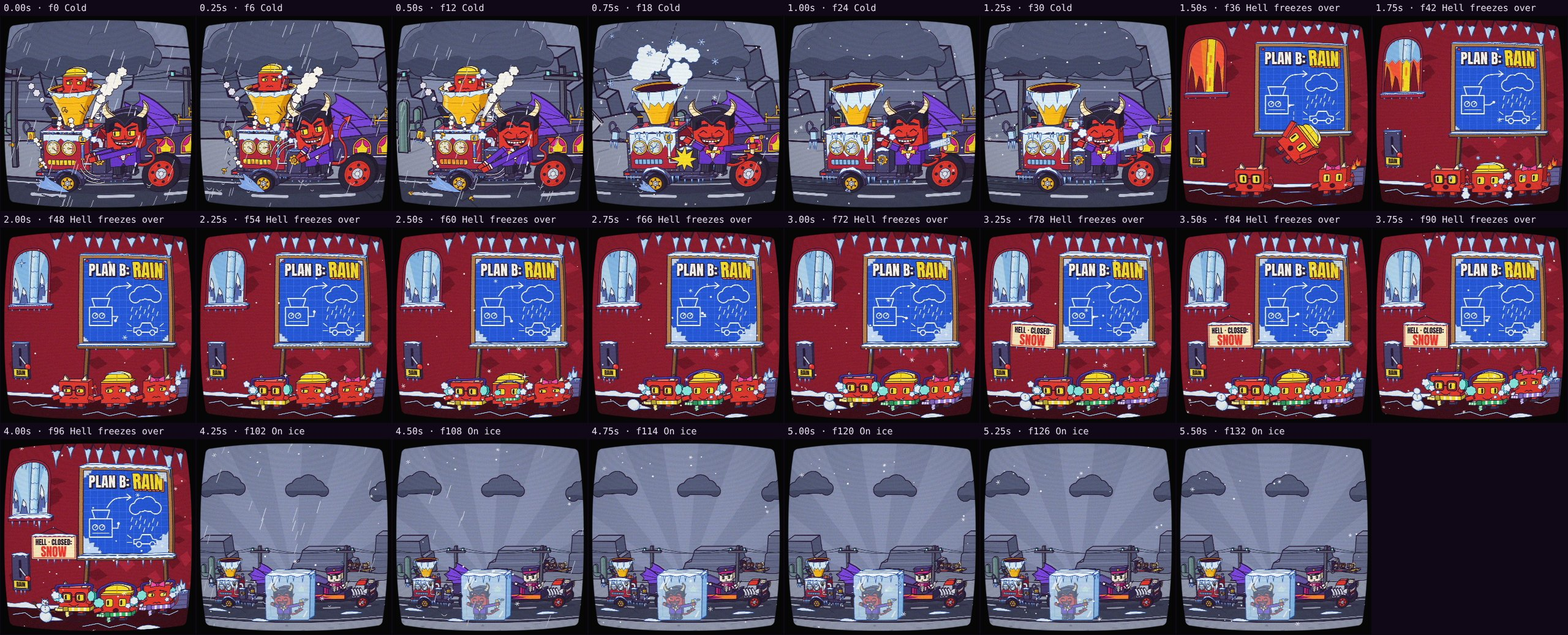
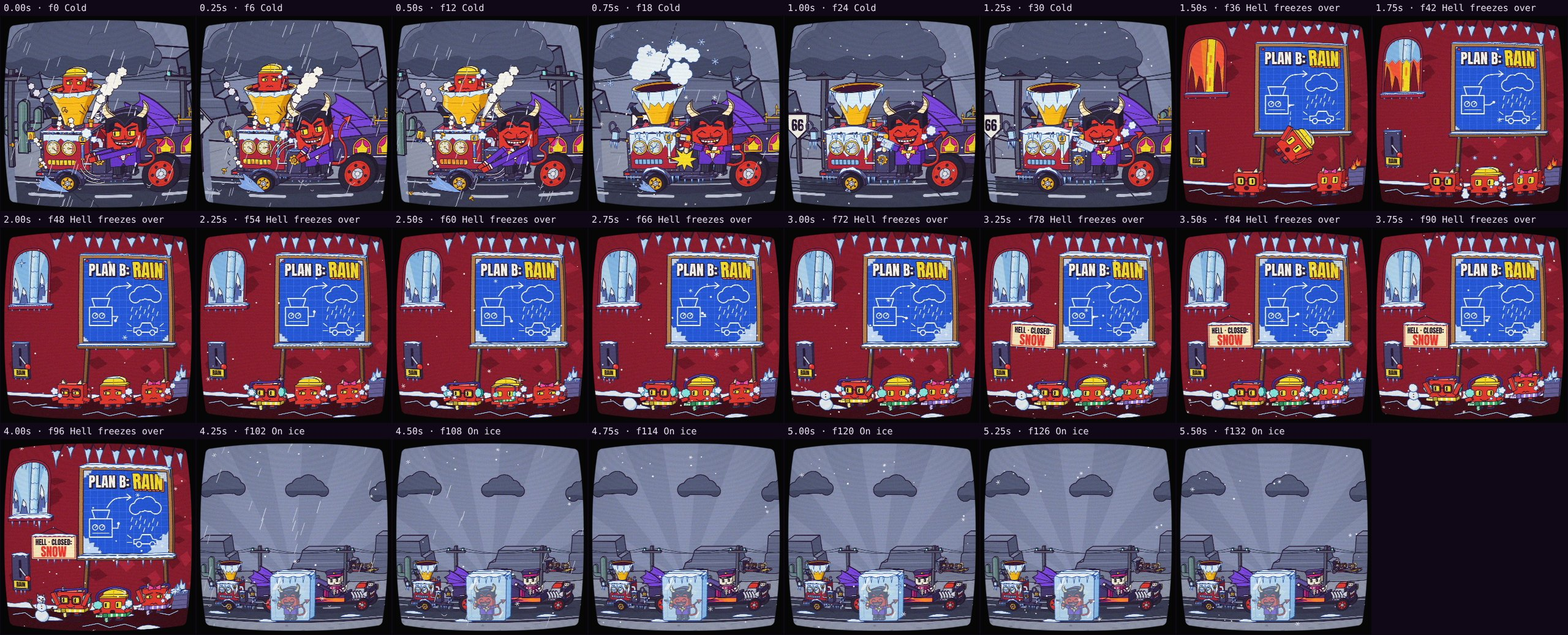
wip(runnin-down-a-dream): blocks in progress, snapshot
Claude-Session: https://claude.ai/code/session_01UB8Eocu6YQhvkYFYMosPEV

diff --git a/sandbox/2026-11-11-runnin-down-a-dream/segments/verse3b-props.js b/sandbox/2026-11-11-runnin-down-a-dream/segments/verse3b-props.js
@@ -637,7 +637,7 @@ const Verse3bProps = (() => {
         const q = rot([p[0] - G.HINGE[0], p[1] - G.HINGE[1]], a);
         return [q[0] + G.HINGE[0], q[1] + G.HINGE[1]];
     };
-    const SHUT = -0.105;
+    const SHUT = -0.084;
     const strata = (g, pts, ys, x0, x1) => {
         g.save();
         C.trace(g, pts);
@@ -686,6 +686,32 @@ const Verse3bProps = (() => {
         C.trace(g, [...LOWER.slice(1, 8), ...LIP.map((p) => turn(p, a))]);
         g.clip();
         for (const [fx, fy, fs, sd] of [[236, 770, 96, 0], [318, 782, 120, 1], [150, 744, 70, 2]]) Fx.flame(g, fx, fy, fs * size * (1 + 0.14 * P.pulse * ((sd + P.k) % 2 ? 1 : 0.4)), d, sd);
+        g.restore();
+    }
+    // The fire behind the shut teeth: it fills the slit between the jaws and beats with the song.
+    function headGlow(g, t, a, k = 1) {
+        const P = S.pulseAt(t), gap = [...LOWER.slice(1, 8), ...LIP.map((p) => turn(p, a))];
+        C.poly(g, gap, { fill: K.orange, lw: 0 });
+        g.save();
+        C.trace(g, gap);
+        g.clip();
+        for (const [rx, ry, col] of [[250, 60, K.gold], [170, 34, K.yellow]]) {
+            g.beginPath();
+            g.ellipse(120, 790, rx * k * (0.8 + 0.3 * P.pulse), ry * k * (0.8 + 0.3 * P.pulse), -0.03, 0, TAU);
+            g.fillStyle = col;
+            g.fill();
+        }
+        g.restore();
+    }
+    // and its light on the stone round the lips, one flat tone
+    function headHalo(g, t) {
+        const P = S.pulseAt(t);
+        g.save();
+        g.globalCompositeOperation = 'screen';
+        g.fillStyle = '#4a1d08';
+        g.beginPath();
+        g.ellipse(120, 792, 250 + 40 * P.pulse, 74 + 16 * P.pulse, -0.03, 0, TAU);
+        g.fill();
         g.restore();
     }
     // An eye: a cave window with a fire behind it and a slit pupil. lid 0..1 closes it from above.
@@ -1008,6 +1034,6 @@ const Verse3bProps = (() => {
         mix, rot, cw, line, tube, dot, puffs, hit, band, lerp, clamp, smooth, SHADOW, NIGHT, WOOD, WOOD_T, WOOD_S, capOf,
         arrowPlank, billboard, PICS, FIELD, beams,
         G, view, toScreen, sky, ground, roadPt, stations, bed, ribbon, inBed, roll, rampH, tongue,
-        headBack, headFlames, headFront, SHUT, exitSign, lever, leverTip, mallet, cone, barrier, blueprint, easel, devil, SCARF, STRIPE,
+        headBack, headFlames, headGlow, headHalo, headFront, SHUT, exitSign, lever, leverTip, mallet, cone, barrier, blueprint, easel, devil, SCARF, STRIPE,
     };
 })();

diff --git a/sandbox/2026-11-11-runnin-down-a-dream/segments/verse3b.js b/sandbox/2026-11-11-runnin-down-a-dream/segments/verse3b.js
@@ -185,8 +185,8 @@
     // on «mine» (the bar line) his own scarf catches on the tail. The camera comes to rest on
     // the gate, the car runs up the tongue and in, and the mouth shuts on the next bar line.
     // =========================================================================================
-    const S3 = 54, Z3 = S3 / SC, OY3 = 770 - G.LANE * Z3, HOLD = 762; // the car's scale, and its middle's distance (wu) from the frame's left edge
-    const tA = T91, Td = n(25.5) - tA, L_F = -770 / Z3, XA = L_F - (SPEED * Td) / 2 + HOLD;
+    const S3 = 54, Z3 = S3 / SC, OY3 = 790 - G.LANE * Z3, HOLD = 762; // the car's scale, and its middle's distance (wu) from the frame's left edge
+    const tA = T91, Td = n(27) - tA, L_F = -560 / Z3, XA = L_F - (SPEED * Td) / 2 + HOLD;
     const carX = (t) => XA + SPEED * (t - tA);
     const camL = (t) => {
         if (t <= tA) return carX(t) - HOLD;
@@ -396,7 +396,13 @@
         }
         for (const [x, y, seed] of hits) V.hit(g, x, y, 44, 'v3b-take' + seed);
         // --- the gate's face, over whatever went in
-        if (cam.L + vw > -200) V.view(g, cam, () => V.headFront(g, t, jaw, eyes));
+        if (cam.L + vw > -200) {
+            V.view(g, cam, () => {
+                if (shut) V.headGlow(g, t, jaw, kb >= 0 && kb < 3 ? 1.6 : 1);
+                V.headFront(g, t, jaw, eyes);
+                if (shut) V.headHalo(g, t);
+            });
+        }
         if (!caught) devilFoot();
 
         // --- the burp: a tongue of flame, a ring of smoke, and one cone that comes back out

diff --git a/sandbox/2026-11-11-runnin-down-a-dream/dev/verse2c/review/auto.md b/sandbox/2026-11-11-runnin-down-a-dream/dev/verse2c/review/auto.md
@@ -11,7 +11,7 @@
 Energy per second (how much the image changes):
 
 ```
-█▇▅▆▇▃
+█▇▅▅▆▃
 0    5    
 ```
 
@@ -19,7 +19,7 @@ No still stretches of 1 s or more.
 
 ## Speed
 
-Painting: 300 ms/frame cold, 176 ms warm → full render ≈ 24 s at this size.
+Painting: 123 ms/frame cold, 92 ms warm → full render ≈ 13 s at this size.
 
 ## Contact sheet
 
